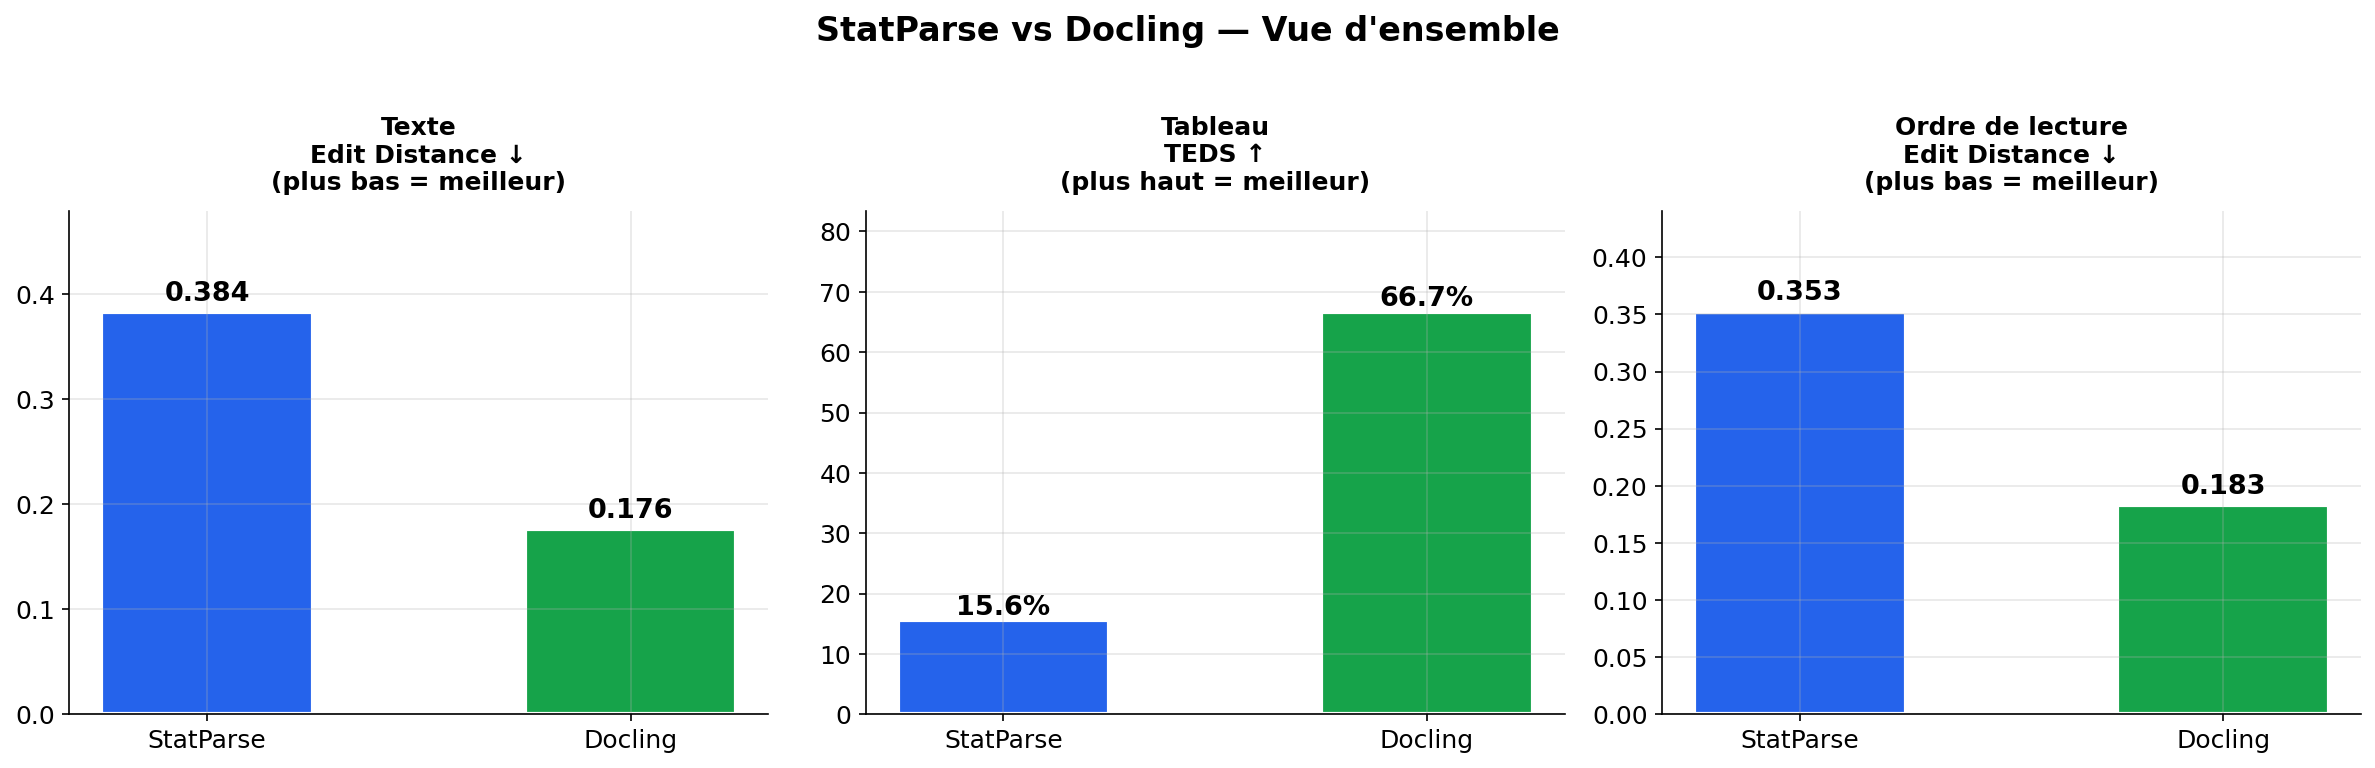
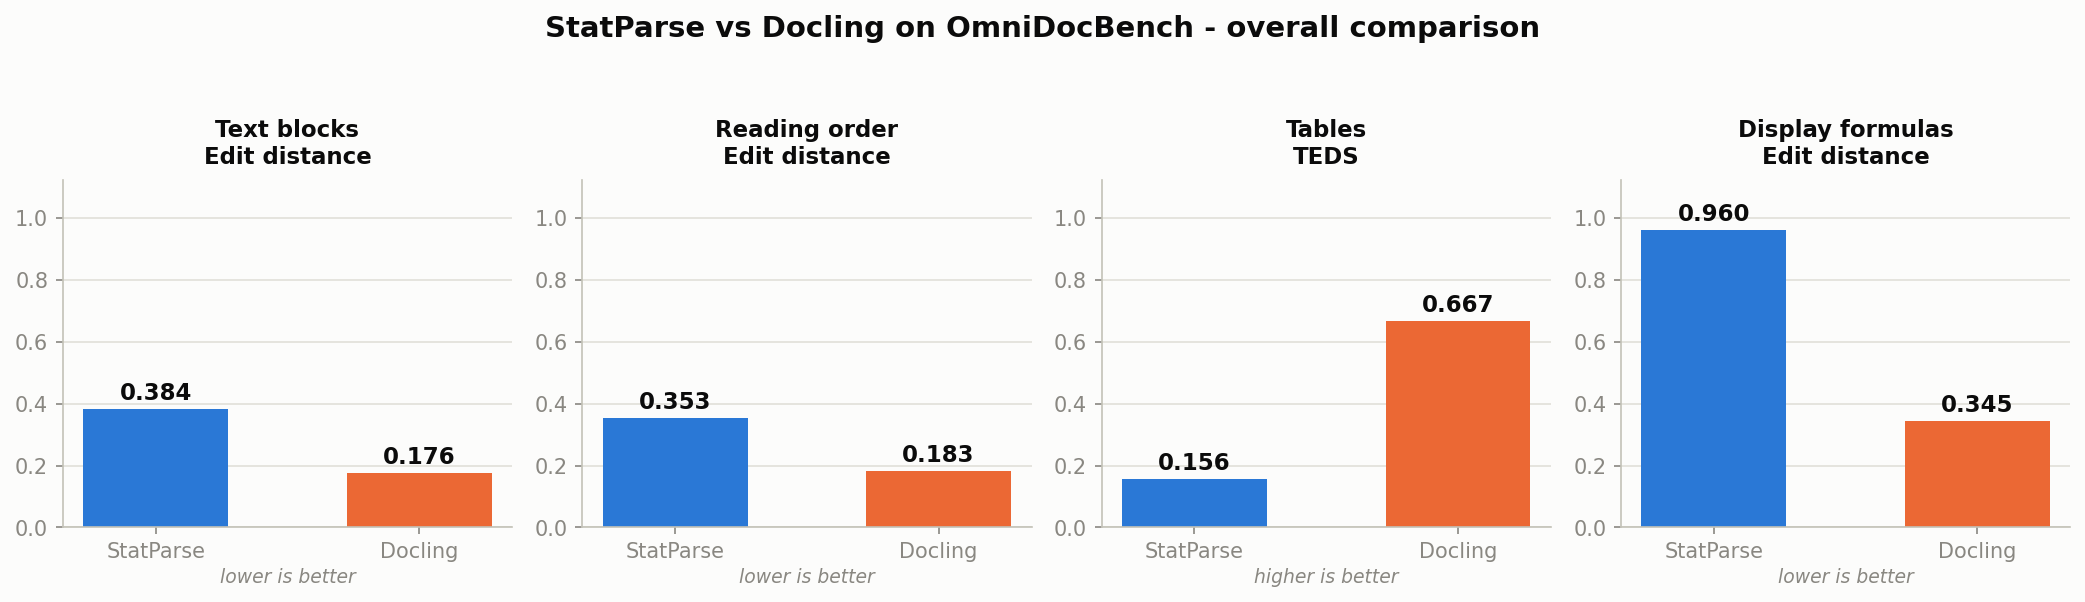
docs: regenerate all result figures in English from the score files
Every figure under tools/ was in French, which did not match an English
README, and three of them were wrong:

  fig2_global      drew a 0.0-1.0 cartesian axis over the polar plot
  fig7_summary     reported a composite "score global" that the harness
                   does not define
  fig8_analysis    was stale: book=0.250 and research_report=0.243 where
                   the committed JSON says 0.278 and 0.187

Add tools/generate_figures.py, which rebuilds all eight from
result/*_quick_match_metric_result.json. No value is typed by hand, so
the figures cannot drift from the scores again. Reruns are idempotent.

Series colours move from blue/green to blue/orange. Blue/green sits at
tritan deltaE 8.2, on the colour-vision floor; blue/orange measures 32.7.

Also translate the two in-panel captions in visualize_pipeline.py that
the title-bar pass missed.

diff --git a/tools/generate_figures.py b/tools/generate_figures.py
@@ -1,0 +1,385 @@
+"""Regenerate every StatParse result figure in English, straight from the
+committed OmniDocBench score files. No number is typed by hand.
+
+Palette: dataviz categorical slots 1 (blue) and 2 (orange). Validated -
+blue/orange keeps tritan separation at dE 32.7 where the previous
+blue/green pair sat at 8.2, right on the floor.
+"""
+import json
+from pathlib import Path
+
+import matplotlib
+matplotlib.use("Agg")
+import matplotlib.pyplot as plt
+import numpy as np
+
+REPO = Path(__file__).resolve().parent.parent
+OUT = REPO / "tools"
+
+STAT = json.loads((REPO / "result" / "statparse_quick_match_metric_result.json").read_text(encoding="utf-8"))
+DOCL = json.loads((REPO / "result" / "docling_quick_match_metric_result.json").read_text(encoding="utf-8"))
+
+C_STAT = "#2a78d6"   # slot 1 blue
+C_DOCL = "#eb6834"   # slot 2 orange
+INK = "#0b0b0b"
+INK2 = "#52514e"
+MUTED = "#898781"
+GRID = "#e1e0d9"
+SURFACE = "#fcfcfb"
+
+plt.rcParams.update({
+    "figure.facecolor": SURFACE,
+    "axes.facecolor": SURFACE,
+    "savefig.facecolor": SURFACE,
+    "font.family": "DejaVu Sans",
+    "text.color": INK,
+    "axes.labelcolor": INK2,
+    "xtick.color": MUTED,
+    "ytick.color": MUTED,
+    "axes.edgecolor": "#c3c2b7",
+    "grid.color": GRID,
+    "axes.grid": True,
+    "grid.linewidth": 0.8,
+    "axes.axisbelow": True,
+})
+
+
+def style(ax, xlabel=None, ylabel=None, title=None):
+    for s in ("top", "right"):
+        ax.spines[s].set_visible(False)
+    if title:
+        ax.set_title(title, fontsize=12, fontweight="bold", color=INK, pad=10)
+    if xlabel:
+        ax.set_xlabel(xlabel, fontsize=10)
+    if ylabel:
+        ax.set_ylabel(ylabel, fontsize=10)
+
+
+def grouped_barh(ax, labels, stat_vals, docl_vals, xlabel, xmax=1.0):
+    """Horizontal grouped bars. Long category names stay readable."""
+    y = np.arange(len(labels))
+    h = 0.38
+    ax.barh(y + h / 2, stat_vals, h, label="StatParse", color=C_STAT)
+    ax.barh(y - h / 2, docl_vals, h, label="Docling", color=C_DOCL)
+    for yi, v in zip(y + h / 2, stat_vals):
+        ax.text(v + xmax * 0.012, yi, f"{v:.3f}", va="center", fontsize=8.5, color=INK2)
+    for yi, v in zip(y - h / 2, docl_vals):
+        ax.text(v + xmax * 0.012, yi, f"{v:.3f}", va="center", fontsize=8.5, color=INK2)
+    ax.set_yticks(y)
+    ax.set_yticklabels(labels, fontsize=9.5, color=INK)
+    ax.set_xlim(0, xmax)
+    ax.invert_yaxis()
+    ax.xaxis.grid(True)
+    ax.yaxis.grid(False)
+    style(ax, xlabel=xlabel)
+
+
+# ══════════════════════════════════════════════════════════════════
+# fig1 - overall comparison
+# ══════════════════════════════════════════════════════════════════
+def fig1():
+    panels = [
+        ("Text blocks\nEdit distance", "lower is better",
+         STAT["text_block"]["page"]["Edit_dist"]["ALL"], DOCL["text_block"]["page"]["Edit_dist"]["ALL"]),
+        ("Reading order\nEdit distance", "lower is better",
+         STAT["reading_order"]["page"]["Edit_dist"]["ALL"], DOCL["reading_order"]["page"]["Edit_dist"]["ALL"]),
+        ("Tables\nTEDS", "higher is better",
+         STAT["table"]["page"]["TEDS"]["ALL"], DOCL["table"]["page"]["TEDS"]["ALL"]),
+        ("Display formulas\nEdit distance", "lower is better",
+         STAT["display_formula"]["page"]["Edit_dist"]["ALL"], DOCL["display_formula"]["page"]["Edit_dist"]["ALL"]),
+    ]
+    fig, axes = plt.subplots(1, 4, figsize=(14, 4.2))
+    for ax, (title, direction, sv, dv) in zip(axes, panels):
+        bars = ax.bar(["StatParse", "Docling"], [sv, dv], color=[C_STAT, C_DOCL], width=0.55)
+        for b, v in zip(bars, [sv, dv]):
+            ax.text(b.get_x() + b.get_width() / 2, v + 0.03, f"{v:.3f}",
+                    ha="center", fontsize=11, fontweight="bold", color=INK)
+        ax.set_ylim(0, 1.12)
+        ax.set_title(title, fontsize=11, fontweight="bold", color=INK, pad=8)
+        ax.text(0.5, -0.16, direction, transform=ax.transAxes, ha="center",
+                fontsize=9, color=MUTED, style="italic")
+        ax.tick_params(labelsize=10)
+        ax.xaxis.grid(False)
+        for s in ("top", "right"):
+            ax.spines[s].set_visible(False)
+    fig.suptitle("StatParse vs Docling on OmniDocBench - overall comparison",
+                 fontsize=14, fontweight="bold", color=INK, y=1.0)
+    fig.tight_layout(rect=[0, 0.02, 1, 0.95])
+    fig.savefig(OUT / "fig1_overview.png", dpi=150, bbox_inches="tight")
+    plt.close(fig)
+
+
+# ══════════════════════════════════════════════════════════════════
+# fig2 - performance profile (radar). Fixes the stray cartesian axis.
+# ══════════════════════════════════════════════════════════════════
+def fig2():
+    axes_labels = ["Text\n(1 - edit)", "Reading order\n(1 - edit)", "Tables\n(TEDS)", "Tables\n(TEDS structure)"]
+    s = [1 - STAT["text_block"]["page"]["Edit_dist"]["ALL"],
+         1 - STAT["reading_order"]["page"]["Edit_dist"]["ALL"],
+         STAT["table"]["page"]["TEDS"]["ALL"],
+         STAT["table"]["page"]["TEDS_structure_only"]["ALL"]]
+    d = [1 - DOCL["text_block"]["page"]["Edit_dist"]["ALL"],
+         1 - DOCL["reading_order"]["page"]["Edit_dist"]["ALL"],
+         DOCL["table"]["page"]["TEDS"]["ALL"],
+         DOCL["table"]["page"]["TEDS_structure_only"]["ALL"]]
+
+    ang = np.linspace(0, 2 * np.pi, len(axes_labels), endpoint=False).tolist()
+    ang += ang[:1]
+    fig = plt.figure(figsize=(7.5, 6.4))
+    ax = fig.add_subplot(111, polar=True)          # the bug was a non-polar subplot here
+    for vals, color, name in ((s, C_STAT, "StatParse"), (d, C_DOCL, "Docling")):
+        v = vals + vals[:1]
+        ax.plot(ang, v, color=color, linewidth=2, marker="o", markersize=7, label=name)
+        ax.fill(ang, v, color=color, alpha=0.13)
+    ax.set_xticks(ang[:-1])
+    ax.set_xticklabels(axes_labels, fontsize=10, color=INK)
+    ax.set_ylim(0, 1)
+    ax.set_yticks([0.25, 0.5, 0.75, 1.0])
+    ax.set_yticklabels(["0.25", "0.50", "0.75", "1.00"], fontsize=8, color=MUTED)
+    ax.set_title("Performance profile - all axes higher is better",
+                 fontsize=13, fontweight="bold", color=INK, pad=26)
+    ax.legend(loc="upper right", bbox_to_anchor=(1.24, 1.13), frameon=False, fontsize=10)
+    ax.grid(color=GRID)
+    fig.subplots_adjust(left=0.16, right=0.84, top=0.86, bottom=0.10)
+    fig.savefig(OUT / "fig2_global.png", dpi=150, bbox_inches="tight", pad_inches=0.35)
+    plt.close(fig)
+
+
+# ══════════════════════════════════════════════════════════════════
+# fig3 - by document type
+# ══════════════════════════════════════════════════════════════════
+DOC_TYPES = [
+    ("research_report", "Research report"),
+    ("book", "Book"),
+    ("academic_literature", "Academic literature"),
+    ("magazine", "Magazine"),
+    ("colorful_textbook", "Colour textbook"),
+    ("PPT2PDF", "Slides (PPT2PDF)"),
+    ("exam_paper", "Exam paper"),
+    ("newspaper", "Newspaper"),
+    ("note", "Handwritten note"),
+]
+
+
+def fig3():
+    fig, axes = plt.subplots(1, 2, figsize=(14, 5.6))
+    for ax, elem, title in ((axes[0], "text_block", "Text blocks"),
+                            (axes[1], "reading_order", "Reading order")):
+        keys = [k for k, _ in DOC_TYPES if "data_source: " + k in STAT[elem]["page"]["Edit_dist"]]
+        labels = [lbl for k, lbl in DOC_TYPES if k in keys]
+        sv = [STAT[elem]["page"]["Edit_dist"]["data_source: " + k] for k in keys]
+        dv = [DOCL[elem]["page"]["Edit_dist"]["data_source: " + k] for k in keys]
+        grouped_barh(ax, labels, sv, dv, "Edit distance (lower is better)", xmax=0.78)
+        ax.set_title(title, fontsize=12, fontweight="bold", color=INK, pad=10)
+    handles, lbls = axes[0].get_legend_handles_labels()
+    fig.legend(handles, lbls, loc="upper center", bbox_to_anchor=(0.5, 0.93),
+               ncol=2, frameon=False, fontsize=11)
+    fig.suptitle("Performance by document type", fontsize=14, fontweight="bold", color=INK)
+    fig.tight_layout(rect=[0, 0, 1, 0.90])
+    fig.savefig(OUT / "fig3_by_doctype.png", dpi=150, bbox_inches="tight")
+    plt.close(fig)
+
+
+# ══════════════════════════════════════════════════════════════════
+# fig4 - table TEDS by attribute
+# ══════════════════════════════════════════════════════════════════
+TABLE_ATTRS = [
+    ("language: table_en", "English"),
+    ("language: table_simplified_chinese", "Simplified Chinese"),
+    ("language: table_en_ch_mixed", "Mixed EN/CH"),
+    ("line: full_line", "Fully ruled"),
+    ("line: less_line", "Sparsely ruled"),
+    ("line: fewer_line", "Few rules"),
+    ("line: wireless_line", "Borderless"),
+    ("with_span: True", "With merged cells"),
+    ("with_span: False", "No merged cells"),
+]
+
+
+def fig4():
+    labels = [lbl for k, lbl in TABLE_ATTRS]
+    sv = [STAT["table"]["group"]["TEDS"][k] for k, _ in TABLE_ATTRS]
+    dv = [DOCL["table"]["group"]["TEDS"][k] for k, _ in TABLE_ATTRS]
+    n = [STAT["table"]["group"]["sample_count"][k] for k, _ in TABLE_ATTRS]
+    labels = [f"{lbl}  (n={c})" for lbl, c in zip(labels, n)]
+    fig, ax = plt.subplots(figsize=(10, 6.2))
+    grouped_barh(ax, labels, sv, dv, "TEDS (higher is better)", xmax=0.92)
+    ax.legend(frameon=False, fontsize=10, loc="lower right")
+    ax.set_title("Table structure recovery (TEDS) by attribute",
+                 fontsize=13, fontweight="bold", color=INK, pad=12)
+    fig.tight_layout()
+    fig.savefig(OUT / "fig4_table_teds.png", dpi=150, bbox_inches="tight")
+    plt.close(fig)
+
+
+# ══════════════════════════════════════════════════════════════════
+# fig5 - language and layout
+# ══════════════════════════════════════════════════════════════════
+LANGS = [("text_language: text_english", "English"),
+         ("text_language: text_simplified_chinese", "Simplified Chinese"),
+         ("text_language: text_en_ch_mixed", "Mixed EN/CH")]
+LAYOUTS = [("layout: single_column", "Single column"),
+           ("layout: double_column", "Double column"),
+           ("layout: three_column", "Three column"),
+           ("layout: other_layout", "Other layout")]
+
+
+def fig5():
+    fig, axes = plt.subplots(1, 2, figsize=(13.5, 4.8))
+    sv = [STAT["text_block"]["group"]["Edit_dist"][k] for k, _ in LANGS]
+    dv = [DOCL["text_block"]["group"]["Edit_dist"][k] for k, _ in LANGS]
+    grouped_barh(axes[0], [l for _, l in LANGS], sv, dv,
+                 "Edit distance (lower is better)", xmax=0.82)
+    axes[0].set_title("Text blocks by language", fontsize=12, fontweight="bold", color=INK, pad=10)
+
+    sv = [STAT["text_block"]["page"]["Edit_dist"][k] for k, _ in LAYOUTS]
+    dv = [DOCL["text_block"]["page"]["Edit_dist"][k] for k, _ in LAYOUTS]
+    grouped_barh(axes[1], [l for _, l in LAYOUTS], sv, dv,
+                 "Edit distance (lower is better)", xmax=0.62)
+    axes[1].set_title("Text blocks by page layout", fontsize=12, fontweight="bold", color=INK, pad=10)
+
+    handles, lbls = axes[0].get_legend_handles_labels()
+    fig.legend(handles, lbls, loc="upper center", bbox_to_anchor=(0.5, 0.92),
+               ncol=2, frameon=False, fontsize=11)
+    fig.suptitle("Performance by language and page layout", fontsize=14, fontweight="bold", color=INK)
+    fig.tight_layout(rect=[0, 0, 1, 0.88])
+    fig.savefig(OUT / "fig5_lang_layout.png", dpi=150, bbox_inches="tight")
+    plt.close(fig)
+
+
+# ══════════════════════════════════════════════════════════════════
+# fig6 - pipeline schematic, English, no emoji (the old one rendered
+# emoji as tofu boxes)
+# ══════════════════════════════════════════════════════════════════
+def fig6():
+    steps = [
+        ("PDF\ninput", ""),
+        ("Preprocessing\nBinarise + deskew", "preprocessing.py"),
+        ("Segmentation\nVBGMM + Delaunay", "segmentation.py"),
+        ("Classification\nGeometric rules", "classification.py"),
+        ("Reading order\nColumn detection", "reading_order.py"),
+        ("OCR\nPaddleOCR", "ocr.py"),
+        ("Markdown\nserialisation", "serialization.py"),
+    ]
+    shades = ["#0d366b", "#184f95", "#256abf", "#2a78d6", "#3987e5", "#5598e7", "#86b6ef"]
+    fig, ax = plt.subplots(figsize=(15, 3.4))
+    ax.set_xlim(0, len(steps) * 2.2)
+    ax.set_ylim(0, 3)
+    ax.axis("off")
+    for i, ((label, module), col) in enumerate(zip(steps, shades)):
+        x = i * 2.2 + 0.12
+        ax.add_patch(plt.Rectangle((x, 0.85), 1.85, 1.7, facecolor=col,
+                                   edgecolor="none", zorder=2))
+        ax.text(x + 0.925, 1.7, label, ha="center", va="center", fontsize=10.5,
+                fontweight="bold", color="white", zorder=3, linespacing=1.5)
+        if module:
+            ax.text(x + 0.925, 0.6, module, ha="center", va="center",
+                    fontsize=8.5, color=MUTED, style="italic", zorder=3)
+        if i < len(steps) - 1:
+            ax.annotate("", xy=(x + 2.12, 1.7), xytext=(x + 1.9, 1.7),
+                        arrowprops=dict(arrowstyle="-|>", color="#898781", lw=1.8))
+    ax.set_title("StatParse pipeline architecture", fontsize=14, fontweight="bold",
+                 color=INK, pad=14)
+    fig.tight_layout()
+    fig.savefig(OUT / "fig6_pipeline.png", dpi=150, bbox_inches="tight")
+    plt.close(fig)
+
+
+# ══════════════════════════════════════════════════════════════════
+# fig7 - summary table. Only metrics the harness actually produces;
+# the old figure reported an undefined composite "score global".
+# ══════════════════════════════════════════════════════════════════
+def fig7():
+    rows = [
+        ("Text blocks", "Edit distance", "lower",
+         STAT["text_block"]["page"]["Edit_dist"]["ALL"], DOCL["text_block"]["page"]["Edit_dist"]["ALL"]),
+        ("Reading order", "Edit distance", "lower",
+         STAT["reading_order"]["page"]["Edit_dist"]["ALL"], DOCL["reading_order"]["page"]["Edit_dist"]["ALL"]),
+        ("Tables", "Edit distance", "lower",
+         STAT["table"]["page"]["Edit_dist"]["ALL"], DOCL["table"]["page"]["Edit_dist"]["ALL"]),
+        ("Tables", "TEDS", "higher",
+         STAT["table"]["page"]["TEDS"]["ALL"], DOCL["table"]["page"]["TEDS"]["ALL"]),
+        ("Tables", "TEDS (structure)", "higher",
+         STAT["table"]["page"]["TEDS_structure_only"]["ALL"], DOCL["table"]["page"]["TEDS_structure_only"]["ALL"]),
+        ("Display formulas", "Edit distance", "lower",
+         STAT["display_formula"]["page"]["Edit_dist"]["ALL"], DOCL["display_formula"]["page"]["Edit_dist"]["ALL"]),
+    ]
+    fig, ax = plt.subplots(figsize=(11.5, 3.6))
+    ax.axis("off")
+    cells, colors = [], []
+    for elem, metric, direction, sv, dv in rows:
+        arrow = "lower is better" if direction == "lower" else "higher is better"
+        gap = (dv - sv) if direction == "lower" else (sv - dv)
+        cells.append([elem, metric, arrow, f"{sv:.3f}", f"{dv:.3f}", f"{abs(gap):.3f}"])
+        colors.append(["#ffffff"] * 3 + ["#eaf2fd", "#fdeee7", "#ffffff"])
+    t = ax.table(cellText=cells,
+                 colLabels=["Element", "Metric", "Direction", "StatParse", "Docling", "Gap"],
+                 cellColours=colors, cellLoc="center", loc="center")
+    t.auto_set_font_size(False)
+    t.set_fontsize(10)
+    t.scale(1, 1.75)
+    for (r, c), cell in t.get_celld().items():
+        cell.set_edgecolor("#e1e0d9")
+        if r == 0:
+            cell.set_facecolor("#0d366b")
+            cell.set_text_props(color="white", fontweight="bold")
+    ax.set_title("Score summary - StatParse vs Docling on OmniDocBench",
+                 fontsize=13, fontweight="bold", color=INK, pad=18)
+    fig.tight_layout()
+    fig.savefig(OUT / "fig7_summary_table.png", dpi=150, bbox_inches="tight")
+    plt.close(fig)
+
+
+# ══════════════════════════════════════════════════════════════════
+# fig8 - strengths and weaknesses. Every number recomputed from the
+# JSON; the old figure quoted stale values.
+# ══════════════════════════════════════════════════════════════════
+def fig8():
+    tb = STAT["text_block"]["page"]["Edit_dist"]
+    ro = STAT["reading_order"]["page"]["Edit_dist"]
+    strengths = [
+        f"Research reports: text edit {tb['data_source: research_report']:.3f} (best document type)",
+        f"Three-column layout: text edit {tb['layout: three_column']:.3f}",
+        f"Books: text edit {tb['data_source: book']:.3f}",
+        f"Reading order on research reports: {ro['data_source: research_report']:.3f}",
+        "Layout analysis is training-free and runs on CPU only",
+        "Handles both Latin and CJK scripts",
+    ]
+    weaknesses = [
+        f"Tables: TEDS {STAT['table']['page']['TEDS']['ALL']:.3f} vs {DOCL['table']['page']['TEDS']['ALL']:.3f} for Docling",
+        f"Display formulas: edit {STAT['display_formula']['page']['Edit_dist']['ALL']:.3f}, no LaTeX recognition",
+        f"Handwritten notes: text edit {tb['data_source: note']:.3f}",
+        f"Newspapers: text edit {tb['data_source: newspaper']:.3f}",
+        f"Mixed EN/CH pages: text edit {tb['language: en_ch_mixed']:.3f}",
+        "Captions are still confused with body text",
+    ]
+    fig, ax = plt.subplots(figsize=(14, 4.4))
+    ax.set_xlim(0, 1)
+    ax.set_ylim(0, 1)
+    ax.axis("off")
+    # transAxes keeps every string inside the canvas; drawing in data
+    # coordinates let long lines escape the axes and blew the saved
+    # figure up to 16000px wide.
+    tx = ax.transAxes
+    ax.text(0.015, 0.95, "Strengths", fontsize=13, fontweight="bold",
+            color="#0d366b", transform=tx, va="top")
+    ax.text(0.525, 0.95, "Areas for improvement", fontsize=13, fontweight="bold",
+            color="#a8391a", transform=tx, va="top")
+    for i, s in enumerate(strengths):
+        ax.text(0.015, 0.79 - i * 0.135, s, fontsize=10, color=INK2,
+                transform=tx, va="top")
+    for i, w in enumerate(weaknesses):
+        ax.text(0.525, 0.79 - i * 0.135, w, fontsize=10, color=INK2,
+                transform=tx, va="top")
+    ax.plot([0.505, 0.505], [0.02, 0.98], color=GRID, lw=1.2, transform=tx)
+    ax.set_title("StatParse - strengths and areas for improvement",
+                 fontsize=14, fontweight="bold", color=INK, pad=14)
+    fig.subplots_adjust(left=0.01, right=0.99, top=0.88, bottom=0.03)
+    fig.savefig(OUT / "fig8_analysis.png", dpi=150)
+    plt.close(fig)
+
+
+if __name__ == "__main__":
+    for f in (fig1, fig2, fig3, fig4, fig5, fig6, fig7, fig8):
+        f()
+        print("wrote", f.__name__)

diff --git a/scripts/visualize_pipeline.py b/scripts/visualize_pipeline.py
@@ -169,7 +169,7 @@ def viz_step2_binarisation(page_rgb: np.ndarray,
     draw = ImageDraw.Draw(pil)
     font = _font(max(14, h // 60))
     draw.text((10, 10), "Original", fill=(200, 100, 50), font=font)
-    draw.text((w//3 + 12, 10), "Binarisé (Sauvola thresholding)", fill=(30, 30, 30), font=font)
+    draw.text((w//3 + 12, 10), "Binarised (Sauvola thresholding)", fill=(30, 30, 30), font=font)
     combined = np.array(pil)
 
     return add_title_bar(combined, "Preprocessing: Sauvola binarisation", 2, total,
